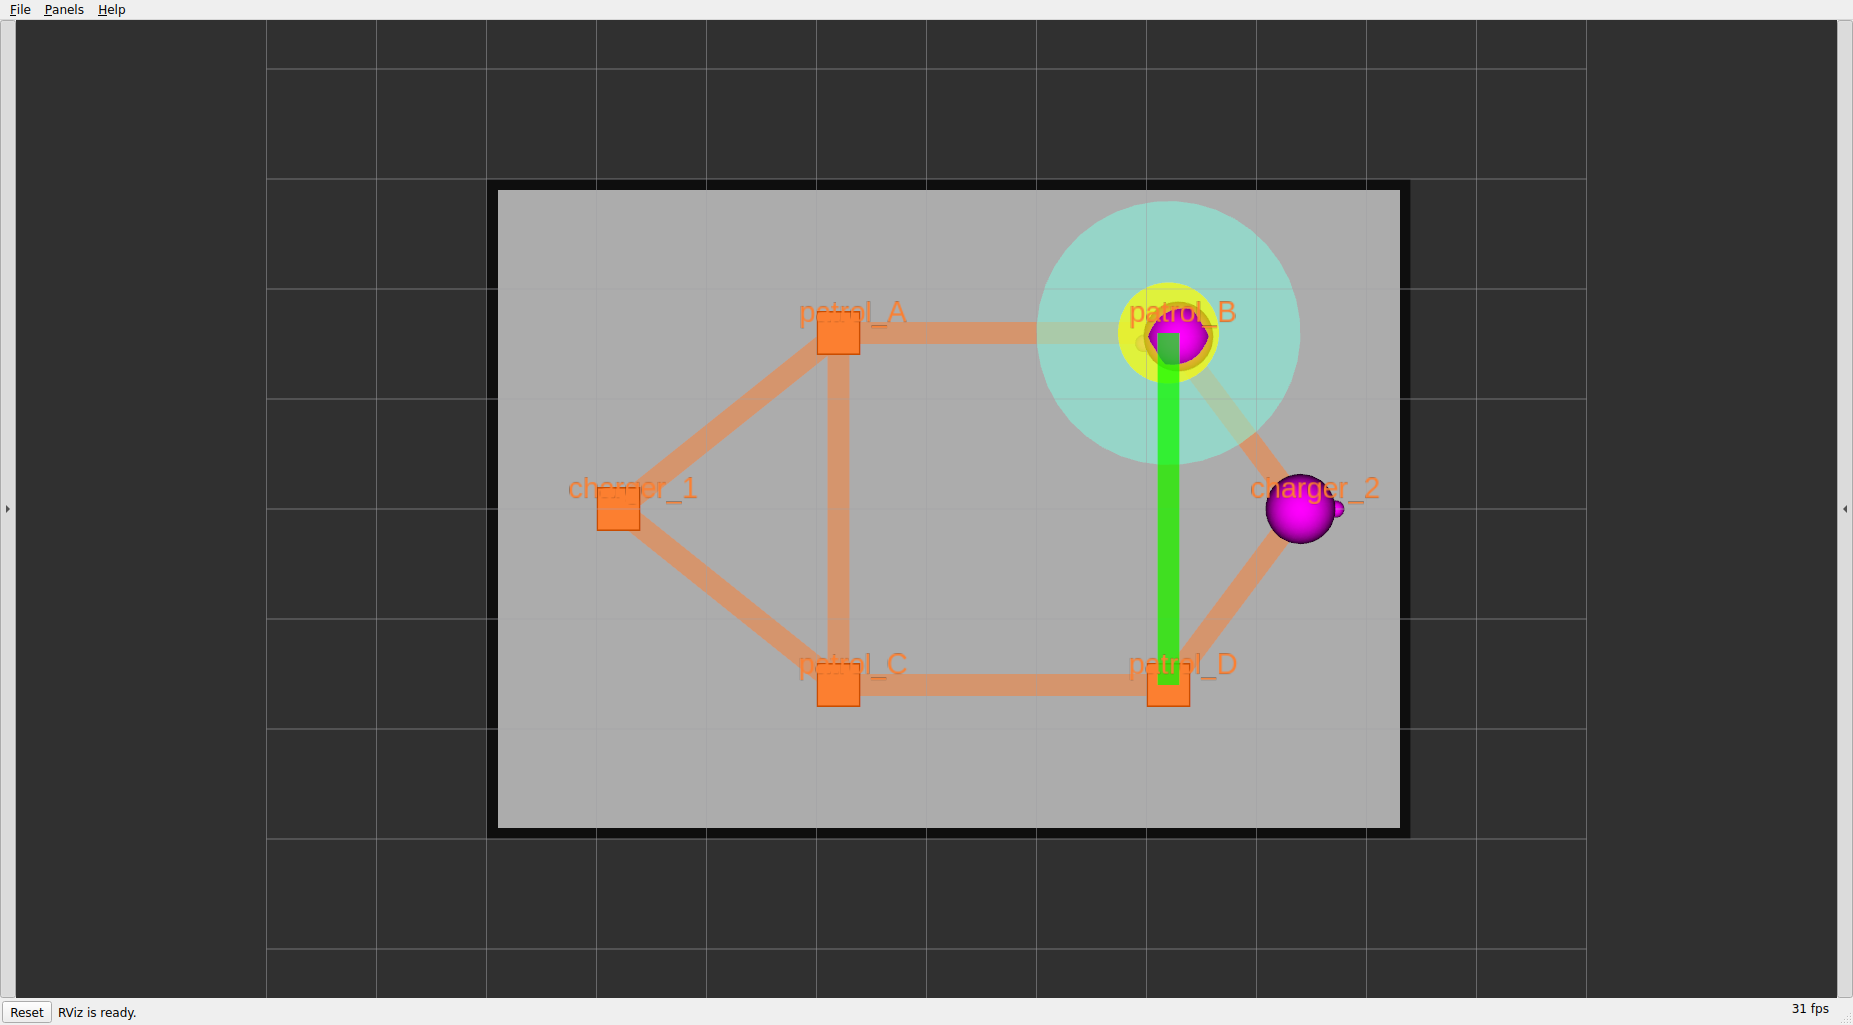
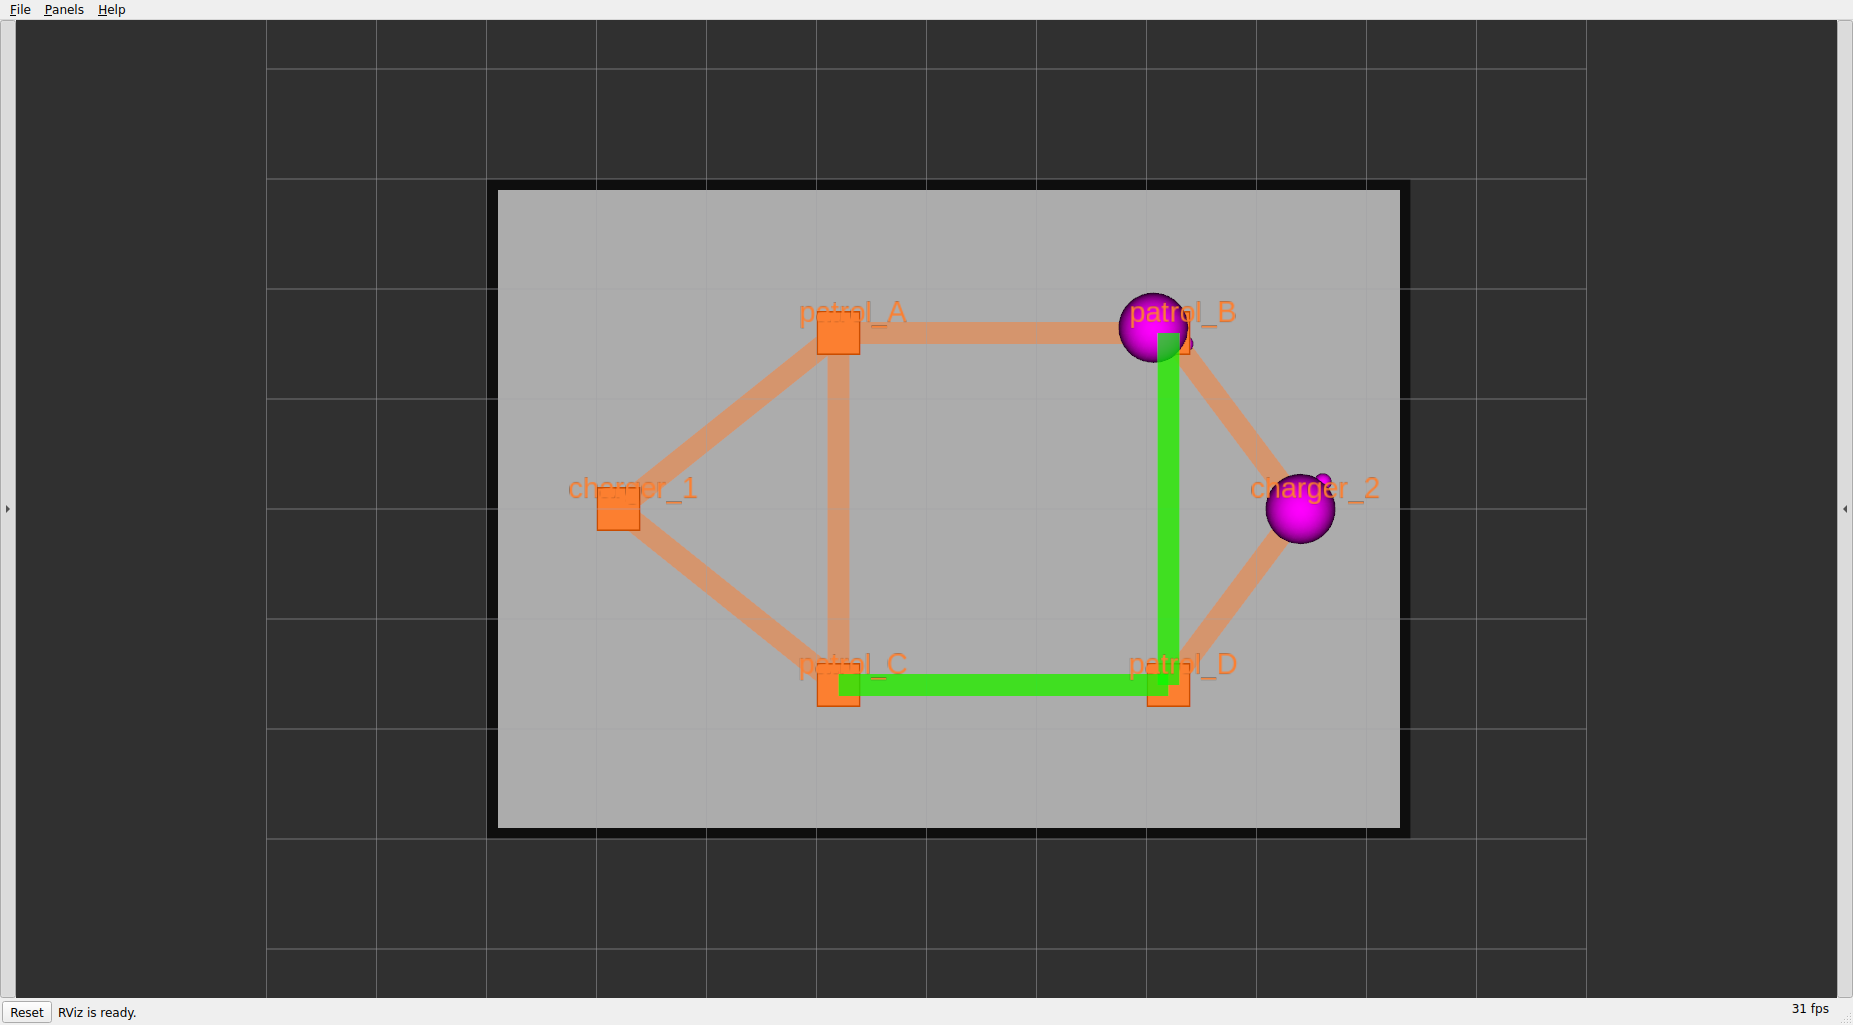
tutorial: recapture media with footprint/vicinity hidden; add ch9 reference figure
黄色footprint / teal vicinity を既定で非表示にした変更に合わせ、tutorial の
メディアを撮り直して整合させた。

- 03_patrol.gif / 03_patrol_rviz.png / 05_traffic.gif / 05_traffic_rviz.png:
  既定(footprint/vicinity 非表示、緑のスケジュール帯は表示)で撮り直し
- 09_footprint_vicinity.png(新規): footprint/vicinity を有効化した参考図
- 09_visualization.md: 再表示手順にこの参考図を追加(旧「章3/5は表示状態で撮影」
  の記述を更新)
- 03_patrol.md / 05_traffic.md: 本文の vicinity/footprint 言及を実態に合わせて修正

Changed region(s): [[0.5537, 0.1873, 0.7075, 0.4683], [0.4307, 0.6556, 0.646, 0.6868]]

diff --git a/docs/tutorial/09_visualization.md b/docs/tutorial/09_visualization.md
@@ -54,8 +54,13 @@ navグラフ(オレンジ)= RMFの「地図」([章3](03_patrol.md))、マゼン
 > 残している。
 >
 > **再表示したい場合**: RVizの `ScheduleMarkers` 表示を開き `participant location 0/1`
-> のチェックを入れる(または当該 namespace を `true` にする)。本章の[章3](03_patrol.md)・
-> [章5](05_traffic.md)のスクリーンショットは、説明のためこれらを表示した状態で撮っている。
+> のチェックを入れる(または当該 namespace を `true` にする)。有効化すると、稼働中の
+> ロボットの周囲に teal(vicinity)と黄(footprint)の円が現れる ↓
+
+![footprint/vicinityを有効化したRViz](images/09_footprint_vicinity.png)
+*参考:`participant location` を表示した状態。2台のロボットに teal の vicinity と
+黄の footprint の円が描かれる(既定ではこれらを非表示にしている。本チュートリアルの
+他のスクリーンショット・動画は既定=非表示で撮影している)。*
 
 > toioのマットは数cm〜数十cm。RMFの可視化は数十m級の建物向けに作られている
 > ため、[章0](00_setup.md)で触れたパッチを当てておかないと、この footprint /

diff --git a/docs/tutorial/03_patrol.md b/docs/tutorial/03_patrol.md
@@ -60,11 +60,11 @@ ros2 run rmf_demos_tasks dispatch_patrol -p patrol_A patrol_B patrol_D patrol_C 
 ## 観察する
 
 patrol実行中のRViz。緑の帯が `rmf_traffic_schedule` に予約された走行経路
-(スケジュール)で、稼働中のロボットには vicinity(teal)と footprint(黄)の
-円が描かれる。navグラフと床面図はそのまま残る。
+(スケジュール)で、稼働中のロボットにだけ出る。navグラフと床面図はそのまま残る。
 
 ![patrol実行中のRViz: スケジュール経路帯](images/03_patrol_rviz.png)
-*緑の帯が予約された経路。toio1が `patrol_B` 付近、toio2は `charger_2` で待機。*
+*緑の帯が予約された経路。toio1が巡回中、toio2は `charger_2` で待機。(スケジュールの
+footprint/vicinity 円は既定で非表示 ── [章9](09_visualization.md)参照)*
 
 ![patrol走行のアニメーション](images/03_patrol.gif)
 *toio1が巡回先を順に訪問していく様子(toio_gazebo)。*

diff --git a/docs/tutorial/05_traffic.md b/docs/tutorial/05_traffic.md
@@ -55,8 +55,8 @@ ros2 run rmf_demos_tasks dispatch_go_to_place -p charger_1 -F toio -R toio2 --us
   逃げ道があるので、たいてい別レーンへ回り込む。
 
 ![2台の経路が交錯するRViz](images/05_traffic_rviz.png)
-*2台に別々のタスクを投げた状態。2本の緑の経路帯が格子を縫うように引かれ、
-各ロボットの vicinity(teal)が相手との間合いを表す。*
+*2台に別々のタスクを投げた状態。2本の緑の経路帯(スケジュール予約)が格子を
+縫うように引かれ、競合区間で譲り合いが起きる。*
 
 ![2台の交差のアニメーション](images/05_traffic.gif)
 *2台が格子上を動きながらレーンを分け合う様子(toio_gazebo)。*
